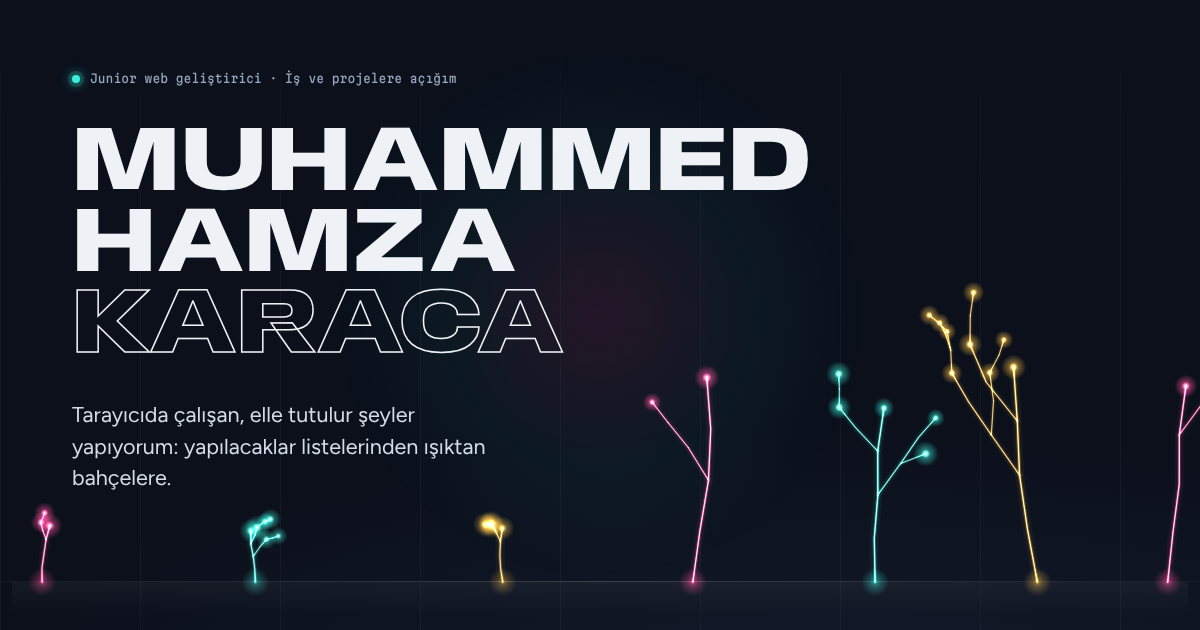
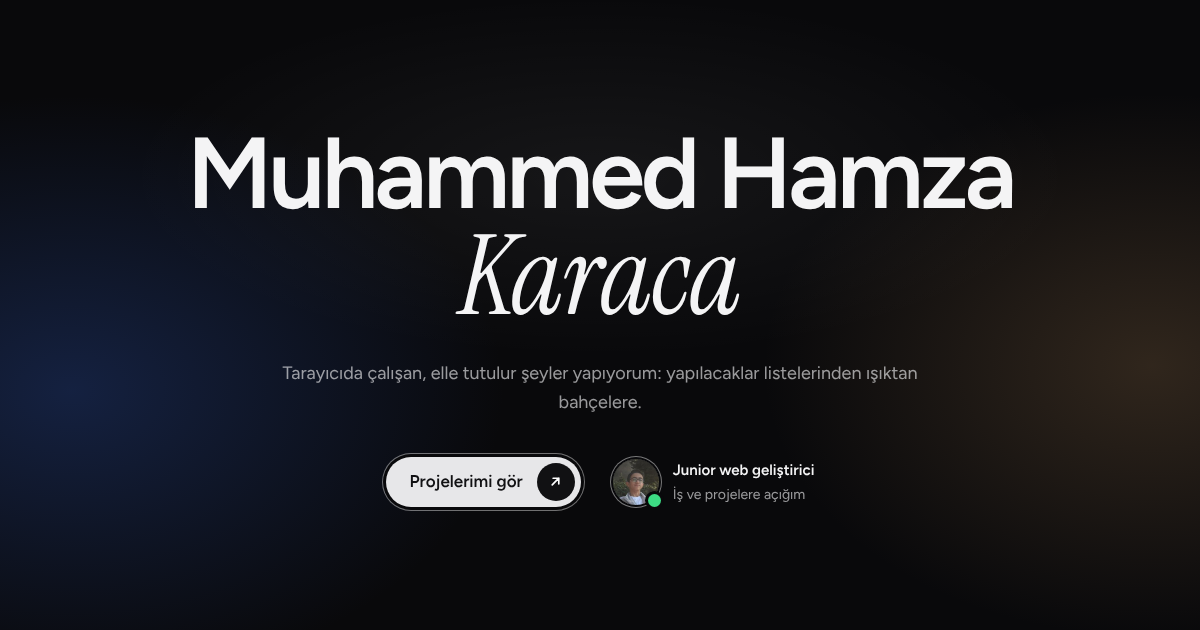
Giriş bölümü yeni tasarım: ortalanmış başlık, hap düğme, kayan teknoloji şeridi
- Ad düz yazı, soyad eğik tırnaklı yazı (Instrument Serif)
- Müşteri fotoğrafları yerine küçük profil fotoğrafı ve durum satırı
- Marka logoları yerine Yetenekler listesinden gelen teknoloji logoları
- Panele küçük profil fotoğrafı alanı eklendi; paylaşım görseli yenilendi

Claude-Session: https://claude.ai/code/session_015cD98G2LMLwpiJcFaBPEqb

diff --git a/css/style.css b/css/style.css
@@ -27,6 +27,12 @@
   --font-display: "Anybody", "Arial Black", system-ui, sans-serif;
   --font-body: "Figtree", system-ui, -apple-system, "Segoe UI", sans-serif;
   --font-mono: "Martian Mono", ui-monospace, "SFMono-Regular", Menlo, monospace;
+  --font-serif: "Instrument Serif", "Iowan Old Style", Georgia, serif;
+
+  /* Giriş bölümü (her iki temada da koyu) */
+  --spot-bg: #09090b;
+  --spot-ink: #f4f4f5;
+  --spot-muted: rgba(244, 244, 245, .62);
 
   --shot-bg: #eff1ee;
 
@@ -435,6 +441,199 @@ a { color: inherit; }
   font-variation-settings: "wdth" 87.5;
   color: var(--night-muted);
 }
+
+/* ---------- Giriş: ortalanmış, koyu, yumuşak ışıklı ---------- */
+.spot {
+  position: relative;
+  isolation: isolate;
+  overflow: hidden;
+  display: flex;
+  flex-direction: column;
+  justify-content: space-between;
+  min-height: min(calc(100vh - var(--header-h) - 32px), 860px);
+  padding: clamp(56px, 9vw, 120px) clamp(20px, 5vw, 64px) clamp(28px, 4vw, 44px);
+  border-radius: calc(var(--radius) + 10px);
+  background:
+    radial-gradient(50% 65% at 6% 62%, rgba(36, 66, 138, .42), transparent 72%),
+    radial-gradient(45% 60% at 96% 58%, rgba(124, 94, 62, .34), transparent 72%),
+    radial-gradient(55% 40% at 50% 28%, rgba(255, 255, 255, .055), transparent 72%),
+    var(--spot-bg);
+  color: var(--spot-ink);
+  text-align: center;
+}
+@supports (min-height: 100svh) {
+  .spot { min-height: min(calc(100svh - var(--header-h) - 32px), 860px); }
+}
+
+.spot__inner {
+  display: flex;
+  flex-direction: column;
+  align-items: center;
+  max-width: 1000px;
+  margin-inline: auto;
+}
+
+.spot__title {
+  font-family: var(--font-body);
+  font-weight: 600;
+  font-size: clamp(2.6rem, 8.4vw, 6.75rem);
+  line-height: 1;
+  letter-spacing: -0.04em;
+  text-wrap: balance;
+}
+.spot__line { display: block; }
+.spot__line--serif {
+  font-family: var(--font-serif);
+  font-style: italic;
+  font-weight: 400;
+  font-size: 1.1em;
+  line-height: .95;
+  letter-spacing: -0.01em;
+}
+
+.spot__lede {
+  max-width: 56ch;
+  margin-top: clamp(20px, 3vw, 30px);
+  font-size: clamp(1rem, 1.5vw, 1.125rem);
+  line-height: 1.6;
+  color: var(--spot-muted);
+}
+
+.spot__cta {
+  display: flex;
+  flex-wrap: wrap;
+  align-items: center;
+  justify-content: center;
+  gap: 20px 32px;
+  margin-top: clamp(28px, 4vw, 40px);
+}
+
+/* Hap şeklinde ana düğme: içinde siyah daire ve ok */
+.pill {
+  display: inline-flex;
+  align-items: center;
+  gap: 14px;
+  padding: 6px 6px 6px 24px;
+  border-radius: 999px;
+  background: #e7e7e9;
+  color: #111113;
+  font-weight: 600;
+  text-decoration: none;
+  box-shadow: 0 0 0 3px var(--spot-bg), 0 0 0 4px rgba(255, 255, 255, .42);
+  transition: background-color .2s, box-shadow .2s;
+}
+.pill:hover { background: #ffffff; box-shadow: 0 0 0 3px var(--spot-bg), 0 0 0 4px rgba(255, 255, 255, .7); }
+.pill:focus-visible { outline-color: #ffffff; outline-offset: 6px; }
+.pill__icon {
+  display: grid;
+  place-items: center;
+  width: 38px;
+  height: 38px;
+  border-radius: 50%;
+  background: #111113;
+  color: #ffffff;
+  transition: transform .4s cubic-bezier(.2, .7, .2, 1);
+}
+.pill:hover .pill__icon { transform: rotate(45deg); }
+.pill__icon svg { width: 15px; height: 15px; fill: none; stroke: currentColor; stroke-width: 1.8; stroke-linecap: round; stroke-linejoin: round; }
+
+/* Fotoğraf + durum */
+.trust {
+  display: flex;
+  align-items: center;
+  gap: 14px;
+  text-align: left;
+}
+.trust__avatar {
+  position: relative;
+  flex: none;
+  width: 46px;
+  height: 46px;
+  border-radius: 50%;
+  box-shadow: 0 0 0 2px var(--spot-bg), 0 0 0 3px rgba(255, 255, 255, .45);
+}
+.trust__avatar img {
+  width: 100%;
+  height: 100%;
+  border-radius: 50%;
+  object-fit: cover;
+}
+.trust__initials {
+  display: grid;
+  place-items: center;
+  width: 100%;
+  height: 100%;
+  border-radius: 50%;
+  background: #27272a;
+  font-weight: 700;
+  font-size: .875rem;
+}
+.trust__dot {
+  position: absolute;
+  right: -2px;
+  bottom: -2px;
+  width: 13px;
+  height: 13px;
+  border-radius: 50%;
+  background: #3ddc84;
+  box-shadow: 0 0 0 3px var(--spot-bg);
+}
+.trust__text b { display: block; font-weight: 600; font-size: .9375rem; color: var(--spot-ink); }
+.trust__text small { display: block; margin-top: 2px; font-size: .875rem; color: var(--spot-muted); }
+
+/* Alt şerit: çizgiler arasında başlık + kayan teknoloji logoları */
+.spot__band { margin-top: clamp(56px, 8vw, 96px); }
+.spot__caption {
+  display: flex;
+  align-items: center;
+  gap: 20px;
+  max-width: 760px;
+  margin-inline: auto;
+  font-size: .875rem;
+  color: var(--spot-muted);
+}
+.spot__caption::before,
+.spot__caption::after {
+  content: "";
+  flex: 1;
+  height: 1px;
+  background: linear-gradient(90deg, transparent, rgba(255, 255, 255, .2));
+}
+.spot__caption::after { background: linear-gradient(270deg, transparent, rgba(255, 255, 255, .2)); }
+
+.marquee {
+  margin-top: 26px;
+  overflow: hidden;
+  -webkit-mask-image: linear-gradient(90deg, transparent, #000 14%, #000 86%, transparent);
+  mask-image: linear-gradient(90deg, transparent, #000 14%, #000 86%, transparent);
+}
+.marquee__track {
+  display: flex;
+  width: max-content;
+}
+.marquee__track li {
+  display: flex;
+  align-items: center;
+  gap: 10px;
+  padding-right: clamp(36px, 5vw, 56px);
+  white-space: nowrap;
+  font-weight: 600;
+  font-size: 1.0625rem;
+  color: rgba(244, 244, 245, .7);
+}
+.marquee__track svg { width: 24px; height: 24px; fill: currentColor; }
+.marquee__dot { width: 6px; height: 6px; border-radius: 50%; background: currentColor; opacity: .6; }
+
+@media (prefers-reduced-motion: no-preference) {
+  .marquee__track { animation: marquee 48s linear infinite; }
+  .marquee:hover .marquee__track { animation-play-state: paused; }
+}
+@media (prefers-reduced-motion: reduce) {
+  .marquee { -webkit-mask-image: none; mask-image: none; }
+  .marquee__track { flex-wrap: wrap; justify-content: center; width: auto; row-gap: 14px; }
+  .marquee__track li[aria-hidden="true"] { display: none; }
+}
+@keyframes marquee { to { transform: translateX(-50%); } }
 
 /* ---------- Bölümler ---------- */
 .section { padding-block: clamp(72px, 11vw, 140px) 0; }
@@ -945,6 +1144,18 @@ a { color: inherit; }
   .js.is-ready .hero__actions { animation: rise .9s cubic-bezier(.2, .7, .2, 1) .7s both; }
   .js.is-ready .hero__soil { animation: fade 1.2s ease .9s both; }
 
+  .js .spot__line,
+  .js .spot__lede,
+  .js .spot__cta,
+  .js .spot__band { opacity: 0; }
+  .js.is-ready .spot__line {
+    animation: blur-rise 1.1s cubic-bezier(.2, .7, .1, 1) both;
+    animation-delay: calc(.1s + var(--i, 0) * .16s);
+  }
+  .js.is-ready .spot__lede { animation: rise .9s cubic-bezier(.2, .7, .2, 1) .45s both; }
+  .js.is-ready .spot__cta { animation: rise .9s cubic-bezier(.2, .7, .2, 1) .6s both; }
+  .js.is-ready .spot__band { animation: fade 1.4s ease .85s both; }
+
   /* Soyadındaki içi boş harflerden periyodik geçen lazer ışığı */
   .hero__surname {
     background-image: linear-gradient(100deg,
@@ -961,6 +1172,7 @@ a { color: inherit; }
   }
 
   /* Fare imlecini izleyen hafif ışık (giriş bölümü) */
+  .spot::after,
   .hero__window::after {
     content: "";
     position: absolute;
@@ -971,7 +1183,9 @@ a { color: inherit; }
     opacity: 0;
     transition: opacity .5s;
   }
+  .spot.is-pointer::after,
   .hero__window.is-pointer::after { opacity: 1; }
+  .spot::after { background: radial-gradient(420px circle at var(--mx, 50%) var(--my, 50%), rgba(255, 255, 255, .06), transparent 70%); }
 
   /* Kaydırınca beliren öğeler */
   .reveal-on [data-reveal] { opacity: 0; }
@@ -1012,6 +1226,10 @@ a { color: inherit; }
 @keyframes rise-sm {
   from { opacity: 0; transform: translateY(10px); }
   to { opacity: 1; transform: none; }
+}
+@keyframes blur-rise {
+  from { opacity: 0; transform: translateY(.25em); filter: blur(14px); }
+  to { opacity: 1; transform: none; filter: blur(0); }
 }
 @keyframes fade {
   from { opacity: 0; }

diff --git a/index.html b/index.html
@@ -36,7 +36,7 @@
 
   <link rel="preconnect" href="https://fonts.googleapis.com">
   <link rel="preconnect" href="https://fonts.gstatic.com" crossorigin>
-  <link rel="stylesheet" href="https://fonts.googleapis.com/css2?family=Anybody:wdth,wght@50..150,100..900&family=Figtree:ital,wght@0,400..700;1,400&family=Martian+Mono:wdth,wght@75..112.5,300..600&display=swap">
+  <link rel="stylesheet" href="https://fonts.googleapis.com/css2?family=Anybody:wdth,wght@50..150,100..900&family=Figtree:ital,wght@0,400..700;1,400&family=Martian+Mono:wdth,wght@75..112.5,300..600&family=Instrument+Serif:ital@1&display=swap">
   <link rel="stylesheet" href="css/style.css?v={{ site.time | date: '%s' }}">
 
   <!-- Tema: sayfa çizilmeden önce seçili temayı uygula (beyaz yanıp sönmeyi önler) -->
@@ -50,7 +50,6 @@
     } catch (e) {}
   </script>
   <script src="js/main.js?v={{ site.time | date: '%s' }}" defer></script>
-  <script src="js/lazer-bahcesi.js?v={{ site.time | date: '%s' }}" defer></script>
 </head>
 <body>
   <a class="skip-link" href="#icerik">İçeriğe atla</a>
@@ -84,40 +83,69 @@
 
   <main id="icerik">
 
-    <!-- ============ GİRİŞ (HERO) ============ -->
+    <!-- ============ GİRİŞ (HERO) ============
+         Yazılar panelden (Giriş ve genel bilgiler) gelir.
+         Kayan şeritteki teknolojiler Yetenekler listesinden gelir;
+         logoları _data/teknoloji_ikonlari.yml dosyasında. -->
+    {%- assign durum_parca = g.durum | split: " · " -%}
+    {%- assign durum_ust = durum_parca[0] -%}
+    {%- assign durum_alt = g.durum | remove_first: durum_ust | remove_first: " · " -%}
+    {%- assign teknolojiler = y.kok_saldi | concat: y.buyuyor | concat: y.filizleniyor -%}
     <section class="hero container" aria-labelledby="hero-baslik">
-      <div class="hero__window">
-        <canvas class="hero__garden" data-garden aria-hidden="true"></canvas>
-
-        <div class="hero__content">
-          {%- if g.durum_goster and g.durum != "" %}
-          <p class="status"><span class="status__dot" aria-hidden="true"></span>{{ g.durum | escape }}</p>
-          {%- endif %}
-
-          <h1 class="hero__name" id="hero-baslik">
-            {%- for k in ad_kelimeleri %}
-            <span style="--i: {{ forloop.index0 }}">{{ k | escape }}</span>
-            {%- endfor %}
-            <span class="hero__surname" style="--i: {{ ad_kelimeleri.size }}">{{ g.soyad | escape }}</span>
+      <div class="spot">
+        <div class="spot__inner">
+          <h1 class="spot__title" id="hero-baslik">
+            <span class="spot__line" style="--i: 0">{{ g.ad | escape }}</span>
+            <span class="spot__line spot__line--serif" style="--i: 1">{{ g.soyad | escape }}</span>
           </h1>
 
-          <p class="hero__lede">{{ g.giris | escape }}</p>
+          <p class="spot__lede">{{ g.giris | escape }}</p>
 
-          <div class="hero__actions">
-            <a class="btn btn--light" href="#projeler">Projelerimi gör</a>
-            <a class="btn btn--ghost" href="#iletisim">Bana yaz</a>
+          <div class="spot__cta">
+            <a class="pill" href="#projeler">
+              Projelerimi gör
+              <span class="pill__icon" aria-hidden="true"><svg viewBox="0 0 16 16"><path d="M4.5 11.5l7-7M5.5 4.5h6v6"/></svg></span>
+            </a>
+
+            {%- if g.durum_goster and g.durum != "" %}
+            <div class="trust">
+              <span class="trust__avatar" aria-hidden="true">
+                {%- assign kucuk_foto = g.profil_kucuk | default: h.foto -%}
+                {%- if kucuk_foto and kucuk_foto != "" %}
+                <img src="{{ kucuk_foto | remove_first: '/' }}" alt="" width="46" height="46" decoding="async">
+                {%- else %}
+                <span class="trust__initials">{{ bas_harfler | upcase }}</span>
+                {%- endif %}
+                <i class="trust__dot"></i>
+              </span>
+              <span class="trust__text">
+                <b>{{ durum_ust | escape }}</b>
+                {%- if durum_alt != "" %}<small>{{ durum_alt | escape }}</small>{% endif %}
+              </span>
+            </div>
+            {%- endif %}
           </div>
         </div>
 
-        <!-- Toprak şeridi: bitkiler bu şeridin üst kenarından büyür -->
-        <div class="hero__soil" data-soil>
-          <button class="plant-btn" type="button" data-plant>
-            <svg viewBox="0 0 16 16" aria-hidden="true"><path d="M8 15V7M8 10 4.5 6.5M8 8.5l3-3"/></svg>
-            Bir ışık dalı ek
-          </button>
-          <span class="hero__hint-note hint--pointer">ya da yukarıda boş bir yere tıkla</span>
-          <span class="hero__hint-note hint--touch">ya da yukarıda boş bir yere dokun</span>
+        {%- if teknolojiler.size > 0 %}
+        <div class="spot__band">
+          <p class="spot__caption"><span>Kullandığım teknolojiler</span></p>
+          <div class="marquee">
+            <ul class="marquee__track">
+              {%- for kopya in (1..4) %}
+              {%- for t in teknolojiler %}
+              {%- assign anahtar = t.ad | downcase | strip -%}
+              {%- assign ikon = site.data.teknoloji_ikonlari[anahtar] %}
+              <li{% if kopya > 1 %} aria-hidden="true"{% endif %}>
+                {%- if ikon %}<svg viewBox="0 0 24 24" aria-hidden="true"><path d="{{ ikon }}"/></svg>{% else %}<i class="marquee__dot" aria-hidden="true"></i>{% endif -%}
+                <span>{{ t.ad | escape }}</span>
+              </li>
+              {%- endfor %}
+              {%- endfor %}
+            </ul>
+          </div>
         </div>
+        {%- endif %}
       </div>
     </section>
 

diff --git a/js/main.js b/js/main.js
@@ -236,7 +236,7 @@ function setupHeaderShadow() {
 
 // ---------- Giriş bölümünde imleci izleyen ışık ----------
 function setupHeroGlow() {
-  const hero = document.querySelector('.hero__window');
+  const hero = document.querySelector('.spot, .hero__window');
   if (!hero || prefersReducedMotion() || !window.matchMedia('(hover: hover)').matches) return;
 
   let frame = 0;

diff --git a/README.md b/README.md
@@ -2,7 +2,7 @@
 
 Hakkımda, Projelerim, Yetenekler ve İletişim bölümlerinden oluşan, **HTML + CSS + JavaScript** ile yazılmış portfolyo sitesi. GitHub Pages'te ücretsiz yayınlanır ve içeriği bir **yönetim panelinden** düzenlenir.
 
-Giriş bölümündeki "lazer bahçesi" bir `<canvas>` animasyonu: ışık bitkileri yerden dallanarak büyür, boş bir yere tıklayınca yenisi eklenir.
+Giriş bölümünün altındaki kayan "Kullandığım teknolojiler" şeridi, panelde Yetenekler bölümüne yazdığın teknolojilerden oluşur; bilinen teknolojilerin logoları `_data/teknoloji_ikonlari.yml` dosyasında. 404 sayfasındaki "lazer bahçesi" bir `<canvas>` animasyonudur.
 
 ## Yönetim paneli
 
